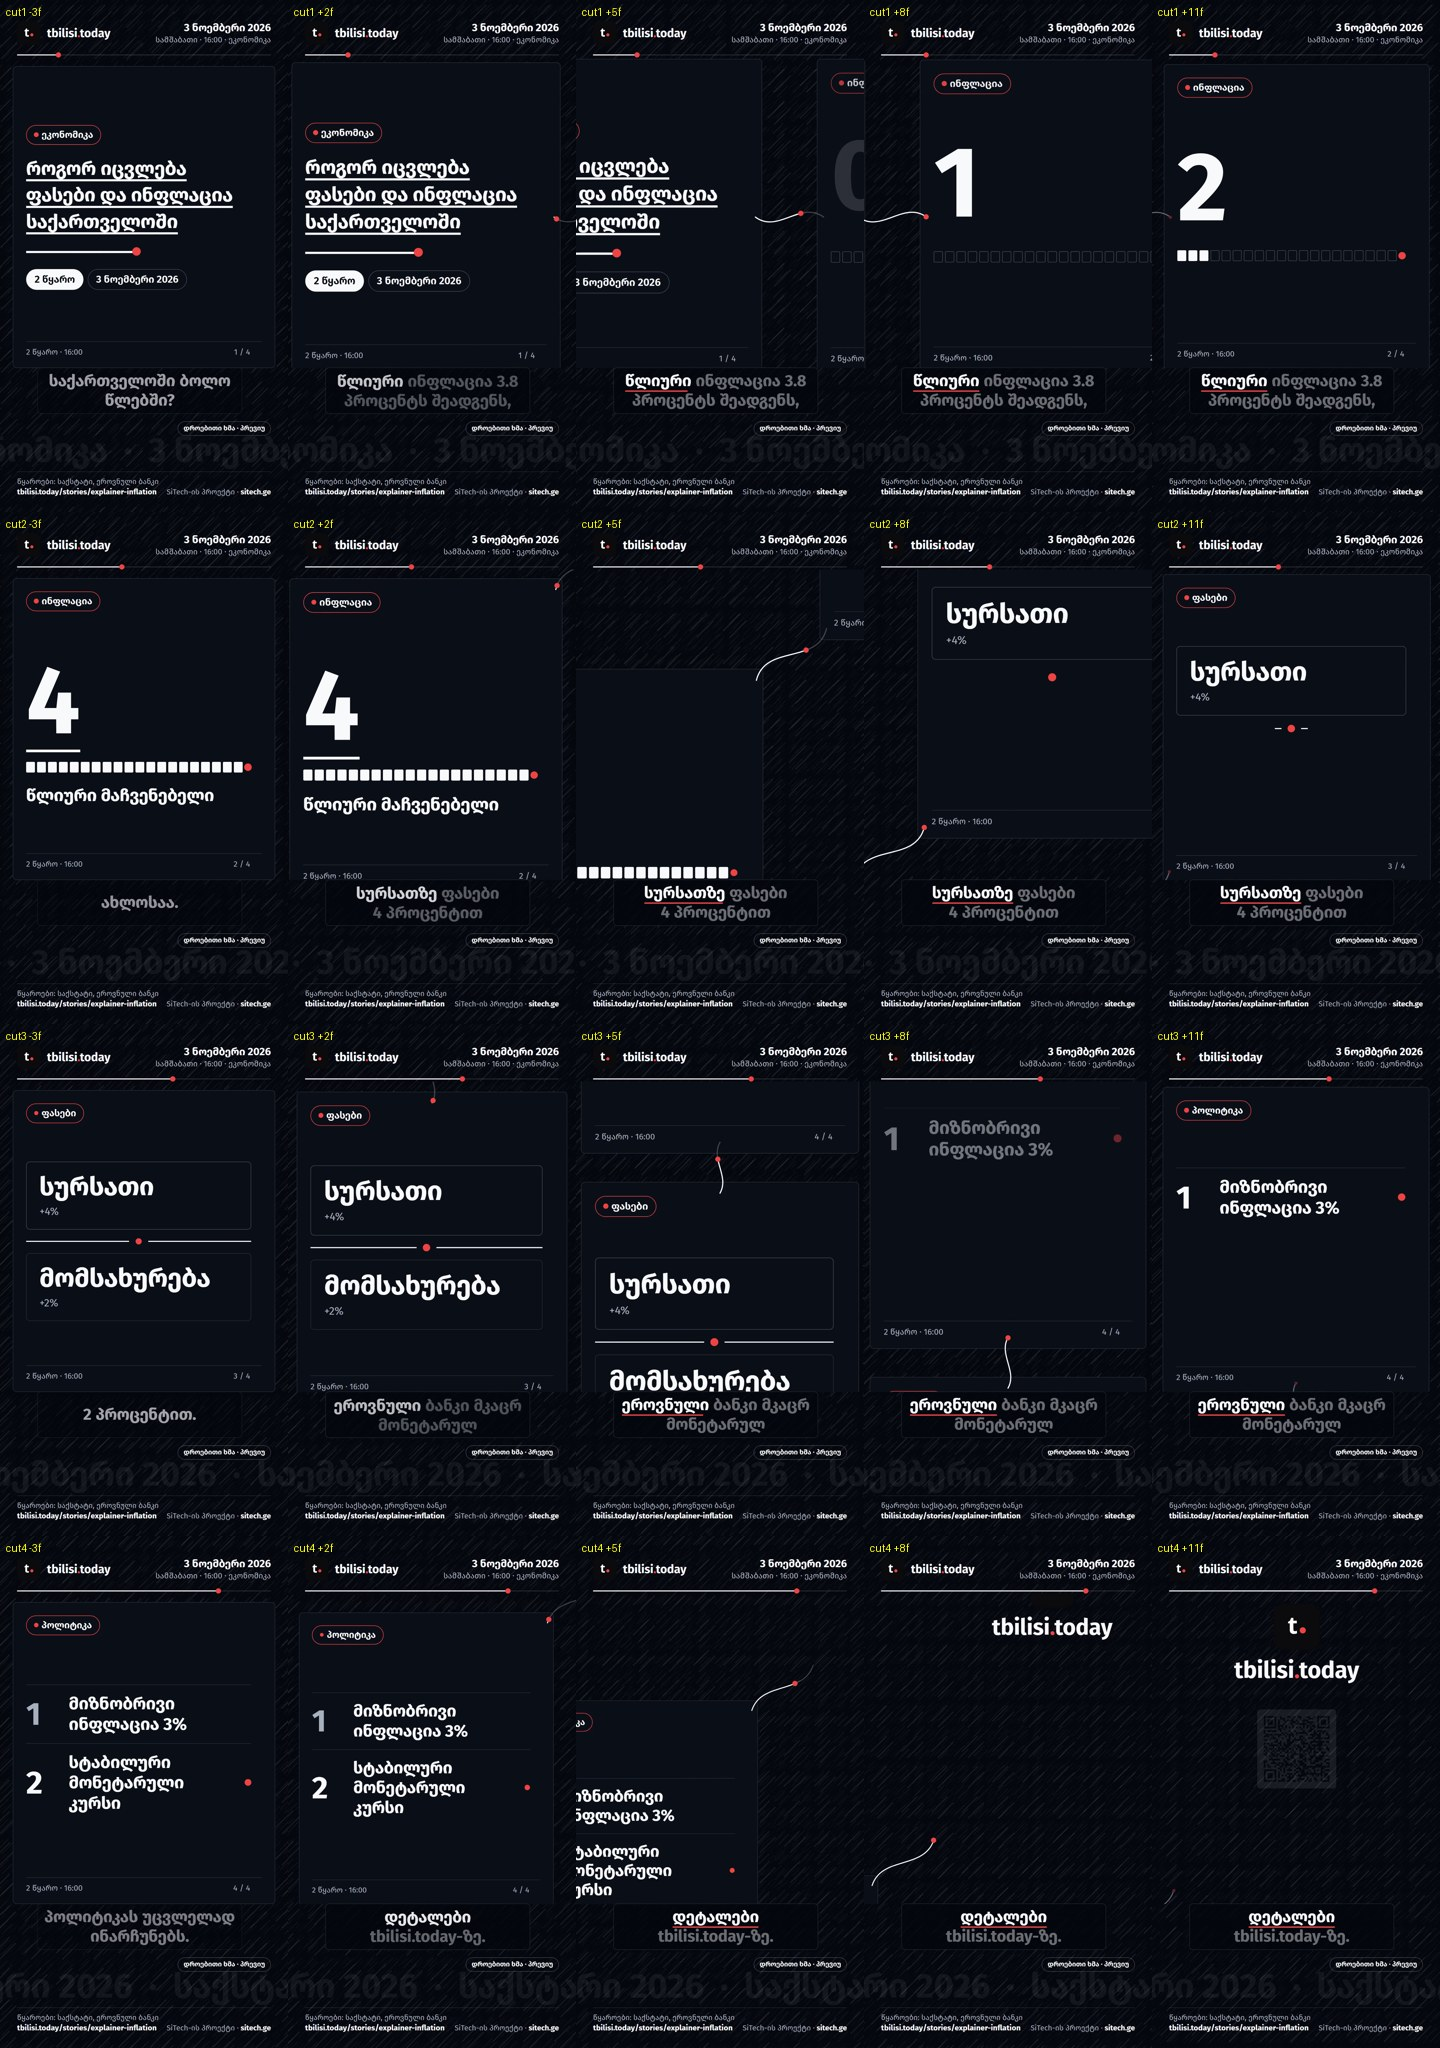
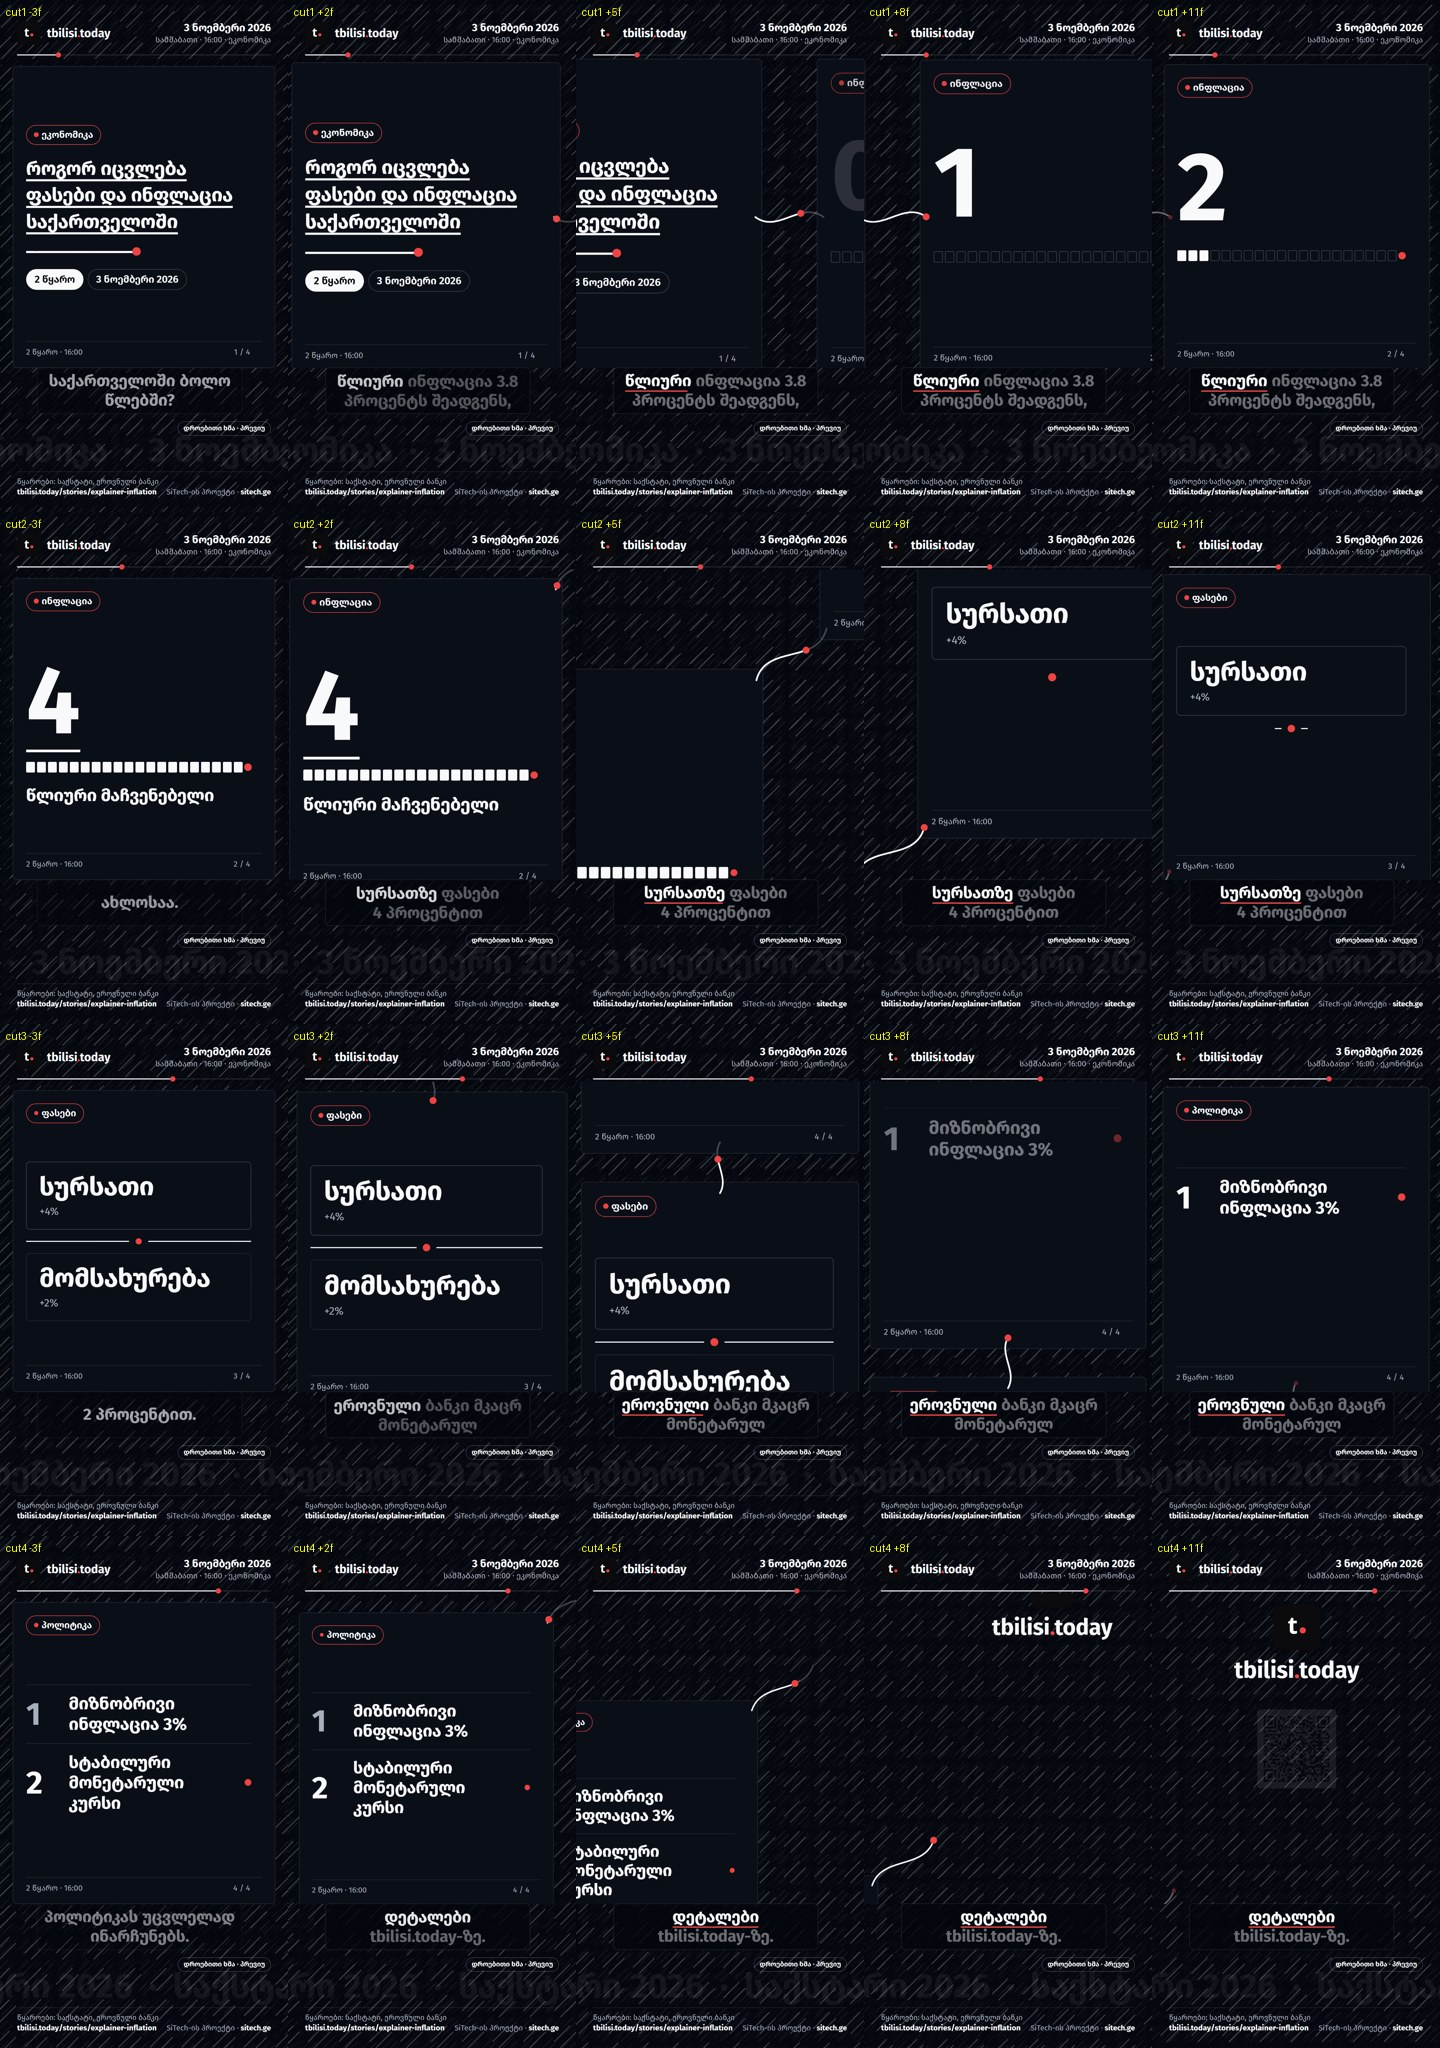
docs(one-take): final evidence, the cut sheet of the film rendered with the final code

diff --git a/docs/research/one-take-result.md b/docs/research/one-take-result.md
@@ -1,27 +1,62 @@
 # one-take: result
 
-Lane `one-take` (ROADMAP D5). Branch `claude/one-take-45e2c4` (cut from `main`; not renamed to `goal/one-take`, the
-brief said to stay in the branch started in). Status: IN PROGRESS. This file is kept current from the first commit.
+Lane `one-take` (ROADMAP D5). Branch `claude/one-take-45e2c4` (cut from `main`; not renamed to `goal/one-take`: the
+brief said to stay in the branch it started in). Nothing pushed or merged.
+
+One line for the user: `"transition": "one-take"` in a format, or nothing (variety picks it for a film of a program).
+`python -m tt_shorts.engine plan|still|render <story> --transition one-take`.
+
+## What was built
+
+- `tt_shorts/onetake.py` (pure): `layout(types, seed)` lays the scenes on a grid of cells (8 compass steps, no turn of
+  more than 90 degrees, a box of 3 cells, no cell twice, a one-step look-ahead, the arriving scene's shape bias: lists
+  come down the page, charts across it, a seeded jitter for the rest) and `position(cam, froms, frame)` is the camera
+  as a pure function of the frame. `attach()` writes `props["camera"]`.
+- `remotion/src/onetake.tsx`: `OneTakeBand` (only the scene band, clipped to the band, rides the camera), `Thread`
+  (a bezier between the two scenes' margins and the dot running it, `@remotion/paths` 4.0.539, pinned to the other
+  Remotion packages), `Parallax` (three layers of the film's own motif behind everything, depth 0.2/0.4/0.65).
+  `remotion/src/motif.tsx` is the motif tile moved out of `Background` unchanged (selftest proves no pixel moved).
+- `variety.transitions_for(look, program)` / `PROGRAM_ONLY = ("one-take",)`: one more option in every look's pool for a
+  story with a `program` other than `news`; `props.choose` refuses it by name for news; `formats.TRANSITIONS`,
+  `props.TRANSITIONS`, `types.ts`, `engine options` (`transitions.one-take`, `variety.program_only_transitions`),
+  `skills/formats/SKILL.md`, `motion_rules` (direction of the camera's move, no fade-out lost to a cut), `sfx` (whoosh).
+- Window: 12 frames from each new scene's first frame; the old scene stays alive 12 frames past its end. A scene's
+  settled frame for the layout probe is its first + 12, exactly at rest, so `probe.py` needed no change.
 
 ## Done-when evidence
 
 | Line | Status | Evidence |
 |---|---|---|
-| `tests/test_variety.py` shows the option used evenly; each limit has a test | not yet | |
-| layout probe passes in every look; `flash` and motion rules pass | not yet | |
-| one whole film rendered with it passes `qa`; frames around each cut looked at | not yet | |
-| fresh-eye critic judged a contact sheet; notes in this file | not yet | |
-| full suite, `tsc`, `selftest` pass after the last fix | not yet | |
+| `tests/test_variety.py` shows the option used evenly; each limit has a test | done | `test_variety`: `test_one_take_is_one_more_cut_for_a_film_of_a_program` (every look: 2 of each of its cuts incl. one-take), `test_news_never_meets_one_take_in_a_run`. `tests/test_onetake.py` (29 tests): zoom <= 1.15 (every frame, 200 seeds, the picture clamps too); moves only in the cut window (no drift at rest, exact rest on a scene with zoom 1.0); probe's settled frame at rest; chrome/captions/footer outside the band (source check of `NewsShort.tsx`); band clipped to the safe zone; pure of the frame (no clock/random); accent only the dot (no `RED`, no shadow); the thread starts and ends in a scene's margin; news refused and its pools unchanged; no ping-pong in the motion rules |
+| layout probe passes in every look; `flash` and motion rules pass | done | `engine probe stories/explainer-inflation.json --look all --transition one-take --engine silent`: editorial, kinetic, cards, `problems: []`. Render report: `motion: {holds: [], warnings: []}`; qa `flash`: `checked: true, area 0.002, limit 0.25` |
+| one whole film rendered with it passes `qa`; frames around each cut looked at | done | `stories/explainer-inflation.json`, cards look, edge-tts preview voice, 26.6 s, `--transition one-take`, rendered with the final code. Render report: probe `problems: []`, `motion: holds [], warnings []`. `engine qa`: `problems: []`, -16.6 LUFS, flash `checked: true, area 0.002, limit 0.25`. Frames at -3/+2/+5/+8/+11 around all four cuts (starts at frames 133, 332, 491, 634): `docs/research/one-take-sheet.jpg` |
+| fresh-eye critic judged a contact sheet; notes here | done | "Critic" below (two sonnet passes, given only the sheet) |
+| full suite, `tsc`, `selftest` pass after the last fix | done | after the last code commit: `python -m unittest discover -s tests`: 804 tests, 2 skipped, all pass (`test_compose.Blocks.test_scaffold_with_blocks` first failed only because `compose/node_modules` was not installed here; after `npm ci` in `compose/` it passes); `(cd remotion && npx tsc --noEmit)` clean; `engine selftest`: 102 unchanged, `layout: []`, `problems: []` (no `--update`, no golden touched) |
 
-## Commits
+## Critic (sonnet, given only the contact sheet)
 
-(filled as they land)
+Round 1 (thread anchored at scene centres): the thread was a huge arbitrary curve that cut through text in cuts 2 and
+3; cut 1 reads as a wipe; the hatch gives no depth. Action: the thread now runs between the two scenes' margins
+(inside the text margin), a gentle bend, so it never crosses what is read (test added).
+Round 2 (after the fix): text collisions gone, header/caption/footer stable. Remaining notes, with what was done:
+1. cuts read as pans, clipped mid-word on a card, "a slide-show push" (cut 1, 3, 4). **Not changed**: a pan clips
+   what leaves the view; a still can't show continuity. The window is 12 frames because the probe settles a scene 12
+   frames in; a longer, softer glide needs `probe.settled` to learn the window (owner/integrator decision, below).
+2. the thread is a faint short hairline; the parallax is invisible in a still. **Changed**: stroke 6 px, dot 26 px,
+   layers' opacity 0.6/0.8/1.0 and the nearest layer in the stronger line colour.
+3. the end card is nearly empty at +8 and its QR faint at +11. **Not camera**: that is the end scene's own entrance
+   (it also happens with a plain cut).
+4. direction changes between cuts (sideways, down, diagonal). By design: the route follows the scenes' shapes and the
+   seed.
 
 ## Owner decisions
 
-1. Should `news` get one-take? The ROADMAP imagines it with the 1.15 zoom cap; `CLAUDE.md` forbids changing `news`.
-   Today the option does not reach it (a story without a `program` is refused an explicit request, and the auto pick
-   never offers it).
+1. Should `news` get one-take? The ROADMAP imagines it with the 1.15 cap; `CLAUDE.md` forbids changing `news`. Today
+   it does not reach it (auto never offers it; naming it for a story without a `program`, or with `news`, is refused).
+2. A longer glide (about 20 frames) reads more continuous than 12. It needs the layout probe's settled frame to be
+   `first + max(12, window)`; `probe.settled` is shared. Left alone.
+3. Parallax uses dots for the `plain` motif (so a plain film still has depth). If "plain means nothing" should win,
+   skip the layers for it.
 
 ## Not done / missing
 
@@ -39,7 +74,30 @@ brief said to stay in the branch started in). Status: IN PROGRESS. This file is 
   6. `@remotion/paths` is not available there: the thread's point-at-length would be GSAP MotionPath or plain bezier
      arithmetic in the wrapper.
   The Python half (`onetake.layout`, `onetake.position`) is engine-free and would be reused unchanged.
+- No golden still for a one-take scene was added: the goldens are rest frames, identical to a plain cut by design, so a
+  golden would prove nothing the probe doesn't. `selftest` goldens are unchanged.
+- The `loop` outro with one-take was written (the loop's cross-fade carries a frozen parallax so the last frame is
+  the first) but not rendered; only the `card` outro film was.
+- The TS `camera()` and the Python `position()` are kept equal by a source-level test (same easing and window
+  strings) and by the render, not by running both on the same frames.
+- Not benchmarked: three full-canvas SVG pattern layers per frame (the 26 s film rendered in about 3 min with other
+  agents running).
 
 ## Shared files touched (additively)
 
-(filled as they land)
+`tt_shorts/variety.py` (PROGRAM_ONLY, `transitions_for`, `one_take_ok`, a `program` argument), `tt_shorts/props.py` (one
+transition, the camera, the refusal), `tt_shorts/formats.py` and `tt_shorts/engine.py` (the option in lists and
+`options`), `tt_shorts/motion_rules.py`, `tt_shorts/sfx.py`, `remotion/src/NewsShort.tsx` (the band, the thread, the
+layers, the longer sequence for one-take; `Background`'s tile moved to `motif.tsx` unchanged), `remotion/src/types.ts`,
+`remotion/package.json` + lock (`@remotion/paths` 4.0.539), `skills/formats/SKILL.md`, `tests/test_variety.py`.
+Not touched: `plugin.yaml`, `__init__.py`, `README.md`, `CLAUDE.md`, `probe.py`.
+
+Paragraph proposed for CLAUDE.md: "**One-take camera** (`tt_shorts/onetake.py`, `remotion/src/onetake.tsx`, transition
+`one-take`): the scenes sit on a path laid out in code and seeded per video; the camera moves only in a 12-frame window
+from each new scene's first frame (zoom <= 1.15, exactly at rest otherwise); chrome and captions never ride it; the
+dot runs the thread. Offered only to a film of a program, never to `news`. A change to the window needs
+`probe.settled` to follow it; a change to the route needs a case in `tests/test_onetake.py`."
+
+## Commits
+
+(see `git log`; the last is named in the final message)
